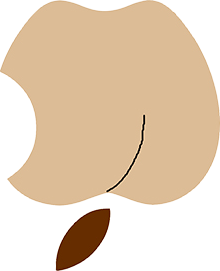
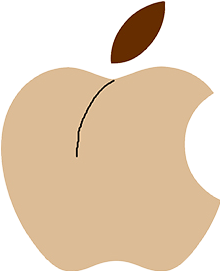
Bessere Dreh-Animation

diff --git a/crapple-kacke/style.css b/crapple-kacke/style.css
@@ -1,6 +1,6 @@
 html, body {
-  width: 100%;
-  height: 100%;
+  width: 100vw;
+  height: 100vh;
   margin: 0;
 }
 
@@ -28,19 +28,12 @@ html, body {
     transform: translateY(-110%);
 }
 
-.kacke-1 {
-  transform: rotate(180deg);
-}
-
-.kacke-2 {
-    transform: rotate(180deg) translateY(-110%);
-}
-
 .crapple-0 {
   background-image: url('crapple-normal.png');
 }
 
 .crapple-1 {
+  transform: rotate(180deg);
   background-image: url('crapple-arsch.png');
 }
 

diff --git a/crapple-kacke/crapple.js b/crapple-kacke/crapple.js
@@ -3,11 +3,10 @@ $(document).ready(function(){
     $('#kacke').removeClass("kacke-0");
   }, 2000);
   window.setTimeout(function(){
-    $('#kacke').addClass("kacke-1");
     $('#crapple').removeClass("crapple-0");
     $('#crapple').addClass("crapple-1");
   }, 3000);
   window.setTimeout(function(){
-    $('#kacke').addClass("kacke-2");
+    $('#kacke').addClass("kacke-0");
   }, 4000);
 })
